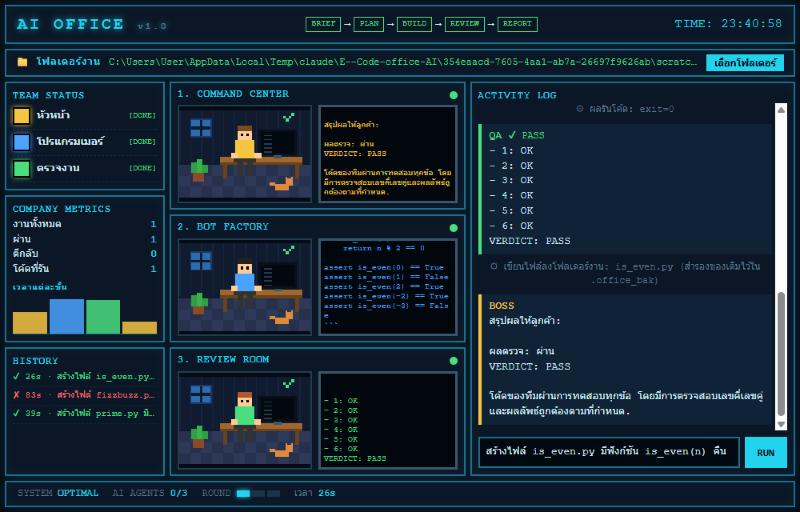
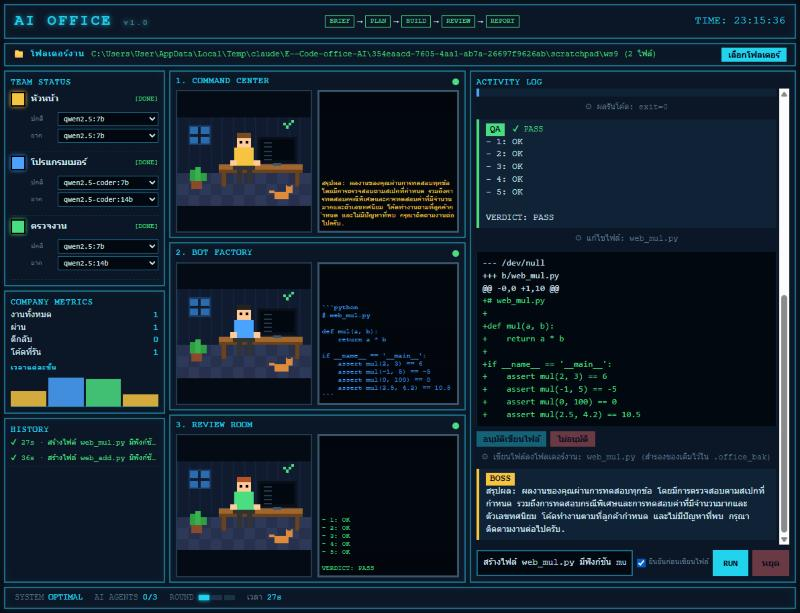
UI polish: wider team column with labeled model pickers, styled role badges, responsive form

diff --git a/index.html b/index.html
@@ -20,7 +20,7 @@ header h1 small{font-size:11px;color:var(--dim)}
 #wspath{flex:1;min-width:0;color:var(--dim);overflow:hidden;text-overflow:ellipsis;white-space:nowrap}
 #wspath.set{color:#4ade80}
 #wsbtn{background:var(--neon);color:#001;border:0;font:bold 12px monospace;padding:3px 10px;cursor:pointer}
-main{flex:1;min-height:0;display:grid;grid-template-columns:200px minmax(0,1fr) minmax(0,1.1fr);gap:6px;padding:6px}
+main{flex:1;min-height:0;display:grid;grid-template-columns:240px minmax(0,1fr) minmax(0,1.1fr);gap:6px;padding:6px}
 .col{display:flex;flex-direction:column;gap:6px;min-height:0;min-width:0}
 .box.p{padding:8px}
 .mem{display:flex;align-items:center;gap:8px;padding:5px 0;border-bottom:1px dashed #1e6f8f55}
@@ -63,8 +63,14 @@ form button:disabled{opacity:.4}
 #appr{flex:none;width:auto;padding:0;border:0;margin:0}
 .ap{font-size:11px;color:var(--dim);white-space:nowrap;display:flex;align-items:center;gap:4px}
 .mem{flex-wrap:wrap}
-.msel{flex-basis:100%;display:flex;gap:4px;padding:0 0 4px 30px}
-.msel select{flex:1;min-width:0;font:10px monospace;background:#02080f;color:var(--txt);border:1px solid var(--line)}
+.msel{flex-basis:100%;display:grid;gap:4px;padding:0 0 8px 30px}
+.msel label{display:grid;grid-template-columns:34px 1fr;align-items:center;gap:6px;font-size:10px;color:var(--dim)}
+.msel select{width:100%;min-width:0;font:11px monospace;padding:2px 4px;background:#02080f;color:var(--txt);border:1px solid var(--line);border-radius:0}
+.msel select:focus{outline:1px solid var(--neon)}
+.mem .n{font-size:13px}
+.msg b{display:inline-block;padding:0 6px;background:var(--c);color:#001;margin-right:4px}
+header h1{font-size:22px}
+#stop{padding:8px 14px}
 .add{color:#4ade80}.del{color:var(--bad)}
 .apv{margin:4px 0}
 .apv button{font:bold 12px monospace;padding:4px 10px;margin-right:6px;cursor:pointer;background:var(--neon);color:#001;border:0}
@@ -77,6 +83,7 @@ footer span{color:var(--dim)}footer b{color:var(--neon)}
 @media(max-width:900px){
  body{height:auto;overflow:auto}main{grid-template-columns:1fr}
  .room{min-height:170px}#logbox{min-height:420px}#team{display:none}}
+@media(max-width:600px){form{flex-wrap:wrap}#task{flex-basis:100%}header h1{font-size:18px}form button{flex:1}}
 </style></head><body>
 <header class="box"><h1>AI OFFICE <small>v1.0</small></h1><div id="flow"></div>
  <span id="clock">--:--</span></header>
@@ -111,7 +118,7 @@ const ROLES=Object.keys(R),col=r=>`var(--${r.toLowerCase()})`;
 const safe=(f,d)=>{try{return f()}catch{return d}};
 
 /* ---------- layout ---------- */
-$("mem").innerHTML=ROLES.map(r=>`<div class="mem" id="mem-${r}" style="--c:${col(r)}"><i class="av"></i><span class="n">${R[r].th}</span><span class="st">[IDLE]</span><div class="msel"><select data-role="${r}" data-kind="model" title="โมเดลงานปกติ"></select><select data-role="${r}" data-kind="hard_model" title="โมเดลงานยาก"></select></div></div>`).join("");
+$("mem").innerHTML=ROLES.map(r=>`<div class="mem" id="mem-${r}" style="--c:${col(r)}"><i class="av"></i><span class="n">${R[r].th}</span><span class="st">[IDLE]</span><div class="msel"><label>ปกติ<select data-role="${r}" data-kind="model"></select></label><label>ยาก<select data-role="${r}" data-kind="hard_model"></select></label></div></div>`).join("");
 $("rooms").innerHTML=ROLES.map(r=>`<div class="box room" id="${r}" style="--c:${col(r)}"><h2><span class="ttl">${R[r].room}</span><i class="dot"></i></h2>
 <div class="scene"><canvas width="96" height="64"></canvas><div class="mon"><div class="t idle">รอรับงาน…</div></div></div></div>`).join("");
 const STAGES=["BRIEF","PLAN","BUILD","REVIEW","REPORT"];
